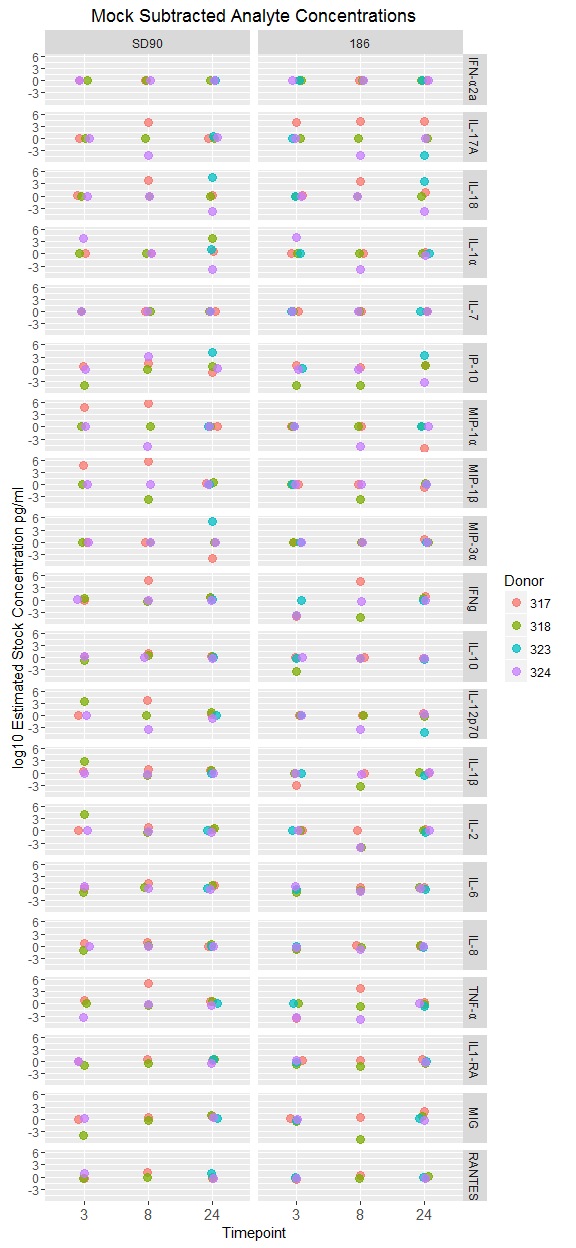
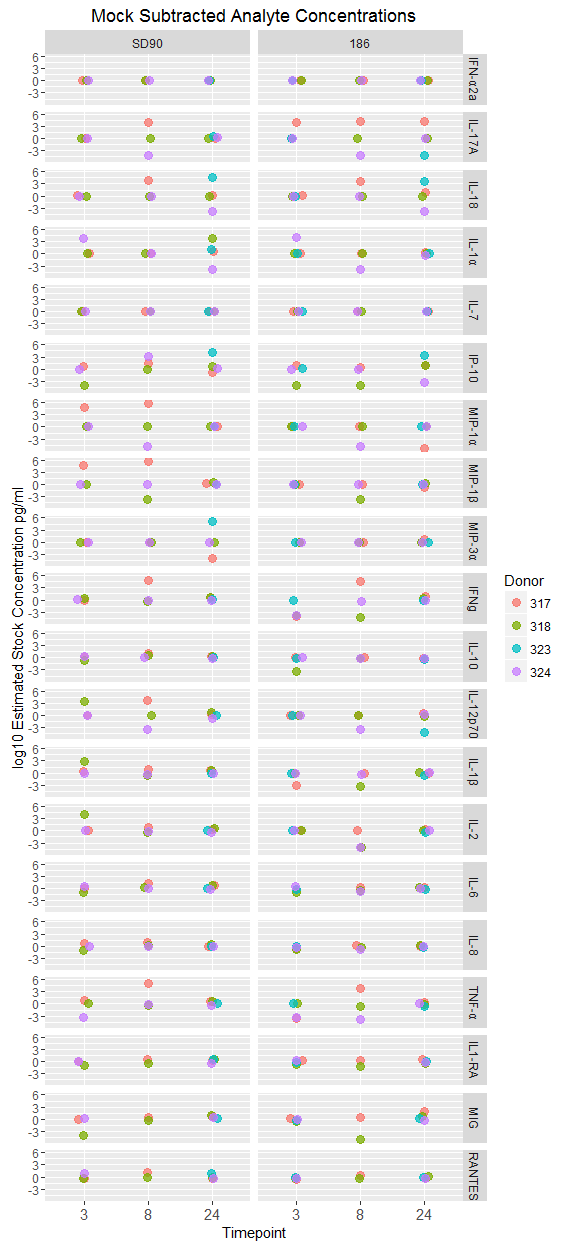
added in data from Lamar for explants 304 and 306

diff --git a/MSD_panels_1_2_3_explant_sup_analysis.md b/MSD_panels_1_2_3_explant_sup_analysis.md
@@ -88,7 +88,7 @@ This is just donors 317,318,323 and 324, which were interesting in the microarra
 
 ![](MSD_panels_1_2_3_explant_sup_analysis_files/figure-markdown_github/subset%20scatter%20plots-1.png)
 
-Note that in these heat maps, the maximum intensity is a fold change of 1 or -1. Any values that were above or below these intensities were set to the max value.
+Note that in these heat maps, the maximum intensity is a fold change of 1 or -1. Any values that were above 1 were set to 1 and any below -1 were set to -1.
 
 ![](MSD_panels_1_2_3_explant_sup_analysis_files/figure-markdown_github/logFC%20heatmap-1.png)
 
@@ -96,4 +96,4 @@ Here is the same heat map with some changes to to Assay names and order:
 
 ![](MSD_panels_1_2_3_explant_sup_analysis_files/figure-markdown_github/rename%20analytes%20logFC%20heatmap-1.png)
 
-This is a heat map showing the same data as above, but fewer analytes ![](MSD_panels_1_2_3_explant_sup_analysis_files/figure-markdown_github/analyte%20subset%20heatmap-1.png)
+This is a heat map showing the same data as above, but fewer analytes and with Lamar's explant 304 and 306 data added in. The gray areas are there because we were missing some data from explant 304 because it was presumably below the LOD (i.e. no concentration was given in Lamar's spreadsheet). ![](MSD_panels_1_2_3_explant_sup_analysis_files/figure-markdown_github/LMF_CL%20data%20log%20FC%20heatmap-1.png)
